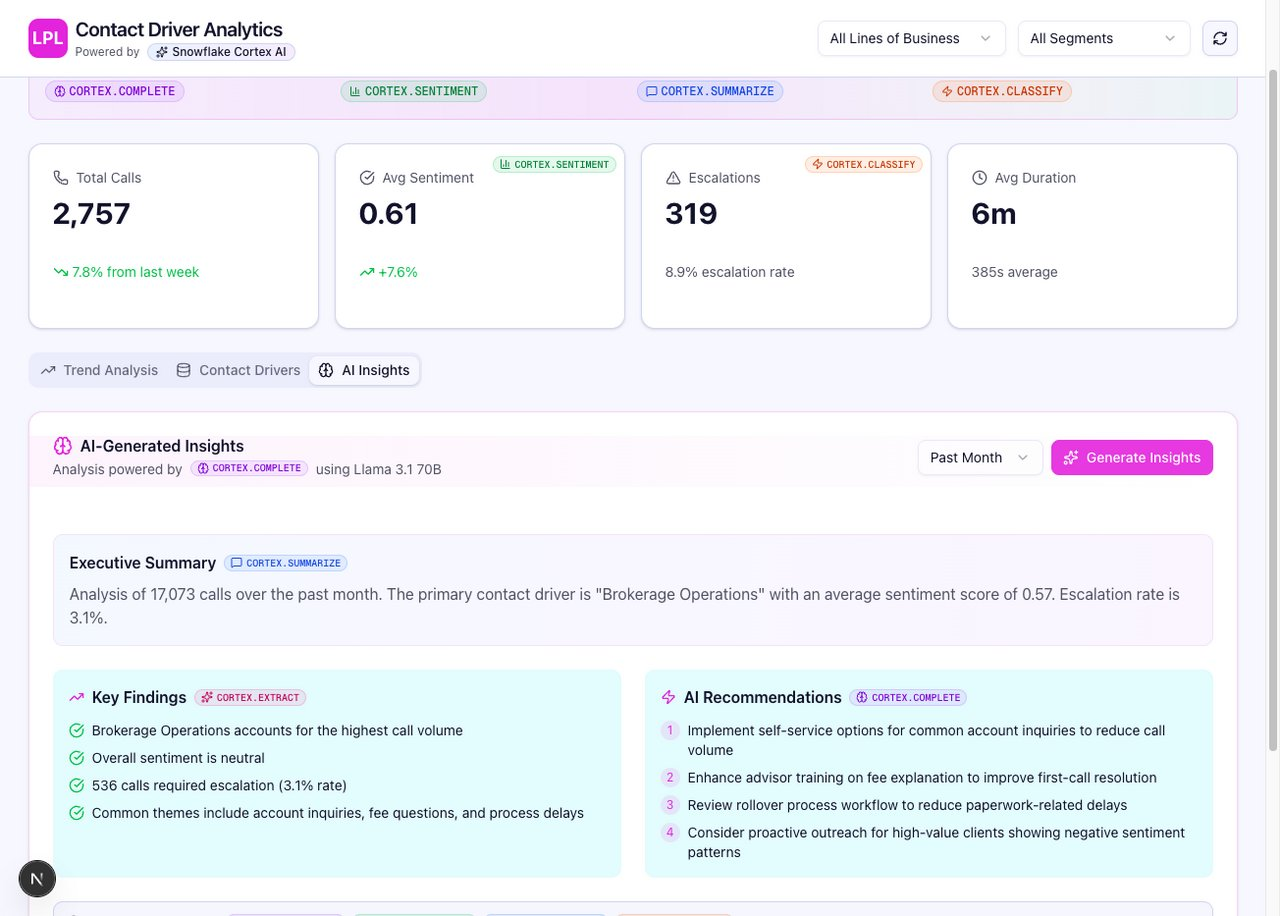
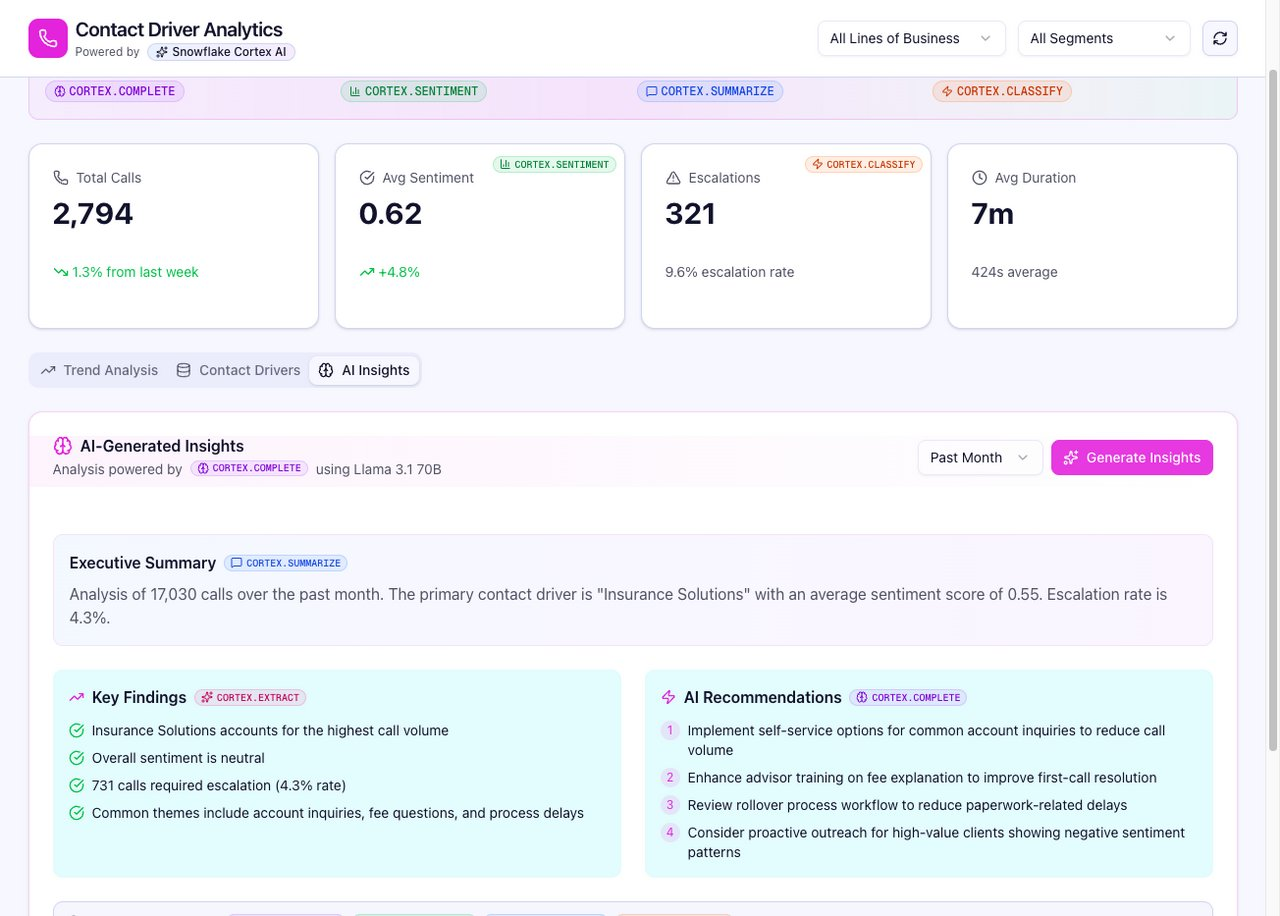
Remove all customer-specific references and retake screenshots
- Replace LPL branding with generic phone icon across app and landing page
- Rename database from LPL_CONTACT_ANALYTICS.DEMO to CONTACT_ANALYTICS.ANALYTICS
- Rename warehouse from LPL_CORTEX_WH to CORTEX_WH
- Genericize all mock transcript text (LPL Financial → our company)
- Update SQL setup, .env.example, README, package.json
- Retake all 4 screenshots without dev overlay or customer branding

Generated with [Snowflake CoCo](https://docs.snowflake.com/en/user-guide/cortex-code/cortex-code)

diff --git a/lib/snowflake.ts b/lib/snowflake.ts
@@ -22,8 +22,8 @@ function getConfig(): snowflake.ConnectionOptions {
   const base = {
     account: process.env.SNOWFLAKE_ACCOUNT || "",
     warehouse: process.env.SNOWFLAKE_WAREHOUSE || "COMPUTE_WH",
-    database: process.env.SNOWFLAKE_DATABASE || "LPL_CONTACT_ANALYTICS",
-    schema: process.env.SNOWFLAKE_SCHEMA || "DEMO",
+    database: process.env.SNOWFLAKE_DATABASE || "CONTACT_ANALYTICS",
+    schema: process.env.SNOWFLAKE_SCHEMA || "ANALYTICS",
     role: process.env.SNOWFLAKE_ROLE || "SYSADMIN",
   };
 
@@ -126,7 +126,7 @@ const TRANSCRIPT_TEMPLATES = [
   {
     reason: "Account Balance Inquiry",
     sentiment: 0.45,
-    transcript: `Agent: Good morning, thank you for calling LPL Financial Customer Service. My name is Rebecca, and I'll be assisting you today. Before we begin, may I have your full name and account number for verification purposes?
+    transcript: `Agent: Good morning, thank you for calling Customer Service. My name is Rebecca, and I'll be assisting you today. Before we begin, may I have your full name and account number for verification purposes?
 
 Client: Hi Rebecca, this is Margaret Chen. My account number is 4521-889-7763.
 
@@ -150,12 +150,12 @@ Agent: I'll send that right over. You should receive it within the next few minu
 
 Client: No, that covers everything. Thank you for being so thorough, Rebecca.
 
-Agent: You're very welcome. Thank you for being a valued LPL Financial client. Have a wonderful day, and best of luck with your advisor meeting next week!`
+Agent: You're very welcome. Thank you for being a valued our company client. Have a wonderful day, and best of luck with your advisor meeting next week!`
   },
   {
     reason: "Transfer Request",
     sentiment: 0.52,
-    transcript: `Agent: Thank you for calling LPL Financial. This is David speaking. How may I assist you today?
+    transcript: `Agent: Thank you for calling our company. This is David speaking. How may I assist you today?
 
 Advisor: Hi David, this is Jennifer Martinez from Coastal Wealth Advisors. I'm calling on behalf of one of my clients who wants to initiate an external transfer.
 
@@ -196,7 +196,7 @@ Agent: You're welcome, Ms. Martinez. Have a great day, and please don't hesitate
   {
     reason: "Portfolio Rebalance",
     sentiment: 0.61,
-    transcript: `Agent: LPL Financial, this is Michael speaking. How can I help you today?
+    transcript: `Agent: our company, this is Michael speaking. How can I help you today?
 
 Advisor: Hi Michael, this is Thomas Anderson from Summit Financial Group. I need assistance with a portfolio rebalance for one of my high-net-worth clients.
 
@@ -228,12 +228,12 @@ Agent: Will do. You should receive the summary within 24 hours after the trades 
 
 Advisor: That's everything. Thanks for making this so smooth, Michael.
 
-Agent: My pleasure, Mr. Anderson. Thank you for calling LPL Financial.`
+Agent: My pleasure, Mr. Anderson. Thank you for calling our company.`
   },
   {
     reason: "Fee Question",
     sentiment: 0.28,
-    transcript: `Agent: Thank you for calling LPL Financial. My name is Sarah. How can I assist you today?
+    transcript: `Agent: Thank you for calling our company. My name is Sarah. How can I assist you today?
 
 Client: Hi Sarah. I'm calling because I received my quarterly statement and I'm confused about some fees that were charged. Frankly, I'm a bit upset because these seem higher than what I expected.
 
@@ -265,12 +265,12 @@ Agent: No need to apologize at all—you have every right to question fees on yo
 
 Client: No, I think that covers it. Thank you for explaining everything so patiently.
 
-Agent: It was my pleasure, Mr. Morrison. Thank you for being an LPL Financial client. Have a great rest of your day!`
+Agent: It was my pleasure, Mr. Morrison. Thank you for being an our company client. Have a great rest of your day!`
   },
   {
     reason: "Technical Support",
     sentiment: -0.15,
-    transcript: `Agent: LPL Financial Technical Support, this is Kevin. How can I help you today?
+    transcript: `Agent: our company Technical Support, this is Kevin. How can I help you today?
 
 Client: Hi Kevin. I've been trying to log into my account online for the past two hours and keep getting an error message. This is incredibly frustrating because I need to check on a pending transaction.
 
@@ -311,7 +311,7 @@ Agent: Absolutely, Mr. Smith. I apologize again for the inconvenience. Thank you
   {
     reason: "Distribution Request",
     sentiment: 0.35,
-    transcript: `Agent: Good afternoon, thank you for calling LPL Financial. My name is Amanda. How may I assist you today?
+    transcript: `Agent: Good afternoon, thank you for calling our company. My name is Amanda. How may I assist you today?
 
 Client: Hi Amanda. I need to take a distribution from my IRA. I'm 67 years old and this will be my first withdrawal.
 
@@ -352,7 +352,7 @@ Agent: You're very welcome. It's important to understand the tax impact of retir
   {
     reason: "Beneficiary Update",
     sentiment: 0.42,
-    transcript: `Agent: LPL Financial, this is Christine speaking. How may I help you today?
+    transcript: `Agent: our company, this is Christine speaking. How may I help you today?
 
 Client: Hello Christine. I need to update the beneficiaries on my retirement accounts. I recently got remarried and need to add my new spouse.
 
@@ -388,12 +388,12 @@ Agent: The change is effective immediately upon processing, which I'll complete 
 
 Client: No, that covers it. Thank you for making this so easy, Christine.
 
-Agent: My pleasure! Congratulations again on your marriage. Thank you for choosing LPL Financial. Have a wonderful day!`
+Agent: My pleasure! Congratulations again on your marriage. Thank you for choosing our company. Have a wonderful day!`
   },
   {
     reason: "Account Opening",
     sentiment: 0.58,
-    transcript: `Agent: Thank you for calling LPL Financial New Accounts. My name is Brandon. How can I help you today?
+    transcript: `Agent: Thank you for calling our company New Accounts. My name is Brandon. How can I help you today?
 
 Advisor: Hi Brandon, this is Michelle Torres from Pinnacle Advisory Group. I have a new client who wants to open a brokerage account and roll over an old 401k.
 
@@ -409,7 +409,7 @@ Agent: For Fidelity 401ks, we recommend a direct trustee-to-trustee transfer to 
 
 Advisor: Should we liquidate the 401k positions before or after the transfer?
 
-Agent: Good question. I recommend transferring "in kind" whenever possible—meaning we transfer the actual investments rather than cashing out. This avoids any market exposure during the transfer period. Once the assets arrive in the LPL IRA, you can then reallocate according to your investment strategy. However, if Fidelity has any proprietary funds that can't transfer, those would need to be liquidated first.
+Agent: Good question. I recommend transferring "in kind" whenever possible—meaning we transfer the actual investments rather than cashing out. This avoids any market exposure during the transfer period. Once the assets arrive in the new IRA, you can then reallocate according to your investment strategy. However, if Fidelity has any proprietary funds that can't transfer, those would need to be liquidated first.
 
 Advisor: That makes sense. What about investment minimums for the new accounts?
 
@@ -425,14 +425,14 @@ Agent: Once we receive all the paperwork, the new accounts typically open within
 
 Advisor: I think that covers the basics. Can you email me the forms?
 
-Agent: Already sending them to your advisor email on file. You should receive the complete new account package within the next few minutes. Welcome to LPL Financial, and congratulations on the new client!
+Agent: Already sending them to your advisor email on file. You should receive the complete new account package within the next few minutes. Welcome to our company, and congratulations on the new client!
 
 Advisor: Thanks Brandon. Very helpful as always.`
   },
   {
     reason: "Complaint",
     sentiment: -0.65,
-    transcript: `Agent: Thank you for calling LPL Financial. My name is Patricia. How may I assist you today?
+    transcript: `Agent: Thank you for calling our company. My name is Patricia. How may I assist you today?
 
 Client: I need to speak with a supervisor. I am extremely unhappy with how my account has been handled.
 
@@ -473,7 +473,7 @@ Agent: You have my word, Mr. Harris. I'm sending you a confirmation email right 
   {
     reason: "Investment Advice Question",
     sentiment: 0.51,
-    transcript: `Agent: LPL Financial Advisory Support, this is Daniel speaking. How can I help you today?
+    transcript: `Agent: our company Advisory Support, this is Daniel speaking. How can I help you today?
 
 Advisor: Hi Daniel, this is Sandra Kim from Evergreen Wealth Management. I have a question about alternative investment options for a client who's interested in diversifying beyond traditional stocks and bonds.
 

diff --git a/app/page.tsx b/app/page.tsx
@@ -164,7 +164,7 @@ export default function Dashboard() {
           <div className="flex items-center gap-4">
             <div className="flex items-center gap-2">
               <div className="w-10 h-10 rounded-lg bg-primary flex items-center justify-center">
-                <span className="text-primary-foreground font-bold text-lg">LPL</span>
+                <Phone className="h-5 w-5 text-primary-foreground" />
               </div>
               <div>
                 <h1 className="text-xl font-semibold tracking-tight">Contact Driver Analytics</h1>
@@ -611,7 +611,7 @@ export default function Dashboard() {
         <footer className="pt-6 border-t text-center text-xs text-muted-foreground">
           <div className="flex items-center justify-center gap-2">
             <Database className="h-4 w-4" />
-            <span>Data source: LPL_CONTACT_ANALYTICS.DEMO</span>
+            <span>Data source: CONTACT_ANALYTICS.ANALYTICS</span>
             <span className="mx-2">•</span>
             <span>AI: Snowflake Cortex (Llama 3.1 70B, Claude 3.5 Sonnet)</span>
             <span className="mx-2">•</span>

diff --git a/app/api/insights/route.ts b/app/api/insights/route.ts
@@ -23,7 +23,7 @@ export async function POST(request: Request) {
         SUM(call_volume) as call_volume,
         AVG(avg_sentiment) as avg_sentiment,
         SUM(escalations) as escalations
-      FROM LPL_CONTACT_ANALYTICS.DEMO.V_CALL_DRIVER_ANALYSIS
+      FROM CONTACT_ANALYTICS.ANALYTICS.V_CALL_DRIVER_ANALYSIS
       WHERE week_start >= DATEADD(day, -${dateRange}, CURRENT_DATE())
       ${segment && segment !== "all" ? `AND line_of_business = '${segment}'` : ""}
       GROUP BY line_of_business
@@ -32,7 +32,7 @@ export async function POST(request: Request) {
 
     const summaries = await query<{ AUTOCALL_SUMMARY: string }>(`
       SELECT autocall_summary
-      FROM LPL_CONTACT_ANALYTICS.DEMO.CALL_TRANSCRIPTS
+      FROM CONTACT_ANALYTICS.ANALYTICS.CALL_TRANSCRIPTS
       WHERE call_date >= DATEADD(day, -${dateRange}, CURRENT_DATE())
       ${segment && segment !== "all" ? `AND line_of_business = '${segment}'` : ""}
       LIMIT 100

diff --git a/docs/index.html b/docs/index.html
@@ -331,7 +331,7 @@
   <nav id="navbar">
     <div class="nav-inner">
       <a href="#" class="nav-brand">
-        <div class="nav-logo">LPL</div>
+        <div class="nav-logo"><svg width="16" height="16" viewBox="0 0 24 24" fill="none" stroke="currentColor" stroke-width="2" stroke-linecap="round" stroke-linejoin="round"><path d="M22 16.92v3a2 2 0 01-2.18 2 19.79 19.79 0 01-8.63-3.07 19.5 19.5 0 01-6-6 19.79 19.79 0 01-3.07-8.67A2 2 0 014.11 2h3a2 2 0 012 1.72c.127.96.361 1.903.7 2.81a2 2 0 01-.45 2.11L8.09 9.91a16 16 0 006 6l1.27-1.27a2 2 0 012.11-.45c.907.339 1.85.573 2.81.7A2 2 0 0122 16.92z"/></svg></div>
         Contact Driver Analytics
       </a>
       <button class="nav-hamburger" aria-label="Toggle navigation" aria-expanded="false">

diff --git a/app/api/drivers/route.ts b/app/api/drivers/route.ts
@@ -38,7 +38,7 @@ export async function GET(request: Request) {
         AVG(avg_sentiment) as avg_sentiment,
         SUM(escalations) as escalations,
         AVG(resolution_rate) as resolution_rate
-      FROM LPL_CONTACT_ANALYTICS.DEMO.V_CALL_DRIVER_ANALYSIS
+      FROM CONTACT_ANALYTICS.ANALYTICS.V_CALL_DRIVER_ANALYSIS
       ${whereClause}
       GROUP BY line_of_business, product_category, customer_segment, caller_type
       ORDER BY call_volume DESC

diff --git a/app/api/segments/route.ts b/app/api/segments/route.ts
@@ -9,7 +9,7 @@ export async function GET() {
       CUSTOMER_SEGMENT: string;
     }>(`
       SELECT DISTINCT line_of_business, product_category, customer_segment
-      FROM LPL_CONTACT_ANALYTICS.DEMO.CALL_TRANSCRIPTS
+      FROM CONTACT_ANALYTICS.ANALYTICS.CALL_TRANSCRIPTS
     `);
 
     const lobs = [...new Set(results.map(r => r.LINE_OF_BUSINESS))];

diff --git a/app/api/transcripts/route.ts b/app/api/transcripts/route.ts
@@ -51,7 +51,7 @@ export async function GET(request: NextRequest) {
       TRANSCRIPT,
       SENTIMENT_SCORE,
       ESCALATED
-    FROM LPL_CONTACT_ANALYTICS.DEMO.CALL_TRANSCRIPTS
+    FROM CONTACT_ANALYTICS.ANALYTICS.CALL_TRANSCRIPTS
     ${whereClause}
     ORDER BY CALL_DATE DESC, CALL_TIME DESC
     LIMIT ${limit}

diff --git a/app/api/trends/route.ts b/app/api/trends/route.ts
@@ -13,7 +13,7 @@ interface TrendRow {
 export async function GET() {
   try {
     const results = await query<TrendRow>(`
-      SELECT * FROM LPL_CONTACT_ANALYTICS.DEMO.V_TREND_SUMMARY
+      SELECT * FROM CONTACT_ANALYTICS.ANALYTICS.V_TREND_SUMMARY
       ORDER BY WEEK_START DESC
       LIMIT 13
     `);

diff --git a/app/layout.tsx b/app/layout.tsx
@@ -14,7 +14,7 @@ const geistMono = Geist_Mono({
 });
 
 export const metadata: Metadata = {
-  title: "LPL Contact Driver Analytics",
+  title: "Contact Driver Analytics",
   description: "AI-powered contact center analytics powered by Snowflake Cortex",
 };
 

diff --git a/README.md b/README.md
@@ -34,8 +34,8 @@ Open [http://localhost:3000](http://localhost:3000). The dashboard loads with 13
 
 Open a **Snowsight SQL Worksheet** and paste the contents of [`sql/setup.sql`](sql/setup.sql). Execute all statements. This creates:
 
-- Database `LPL_CONTACT_ANALYTICS` with schema `DEMO`
-- Warehouse `LPL_CORTEX_WH` (Medium, auto-suspend 60s)
+- Database `CONTACT_ANALYTICS` with schema `ANALYTICS`
+- Warehouse `CORTEX_WH` (Medium, auto-suspend 60s)
 - Required grants
 
 ### Step 2: Load Your Data
@@ -69,9 +69,9 @@ Edit `.env.local` with your Snowflake account details:
 SNOWFLAKE_ACCOUNT=xy12345.us-east-1
 SNOWFLAKE_USER=your_username
 SNOWFLAKE_PRIVATE_KEY_PATH=./rsa_key.p8
-SNOWFLAKE_WAREHOUSE=LPL_CORTEX_WH
-SNOWFLAKE_DATABASE=LPL_CONTACT_ANALYTICS
-SNOWFLAKE_SCHEMA=DEMO
+SNOWFLAKE_WAREHOUSE=CORTEX_WH
+SNOWFLAKE_DATABASE=CONTACT_ANALYTICS
+SNOWFLAKE_SCHEMA=ANALYTICS
 SNOWFLAKE_ROLE=SYSADMIN
 ```
 
